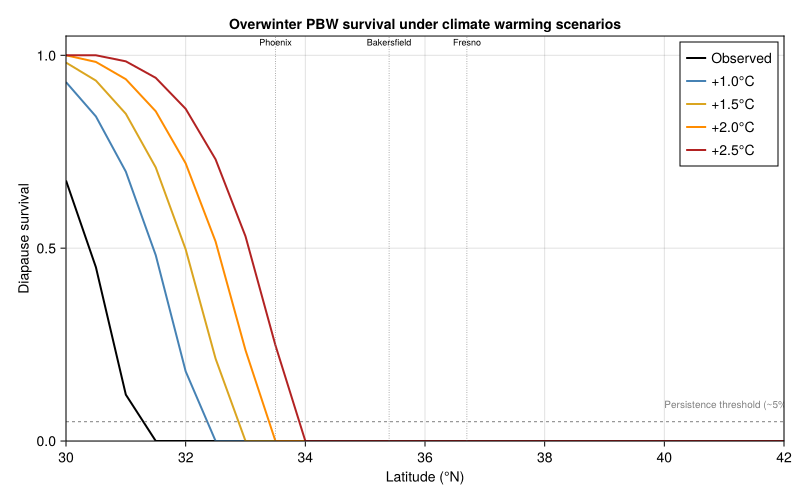
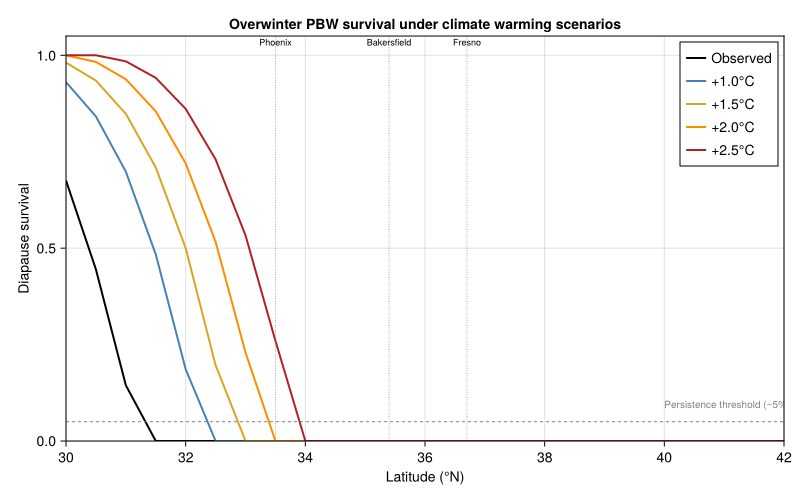
Render vignettes to gfm/HTML/PDF; fix LaTeX in vignette 59
- scripts/render_all_vignettes.sh: parameterise on output format
  (default gfm); usage: render_all_vignettes.sh [gfm|html|pdf]
- 59_olive_climate: brace \max / \min subscripts
  ('Y_\max' -> 'Y_{\max}', 'I_\max' -> 'I_{\max}') to satisfy
  lualatex; the bare form is fine for HTML/MathJax but breaks PDF
- 17_pink_bollworm: minor figure regen from full re-render

Render results across all 64 vignettes:
  gfm:  64/64 ok
  html: 64/64 ok
  pdf:  64/64 ok (after the #59 fix)

diff --git a/vignettes/17_pink_bollworm/17_pink_bollworm.md b/vignettes/17_pink_bollworm/17_pink_bollworm.md
@@ -472,15 +472,15 @@ end
 ```
 
     Phoenix, AZ:
-      Winter cold DD (below 10°C): 582.0
+      Winter cold DD (below 10°C): 580.0
       Diapause larval survival:    0.0%
 
     Bakersfield, CA:
-      Winter cold DD (below 10°C): 1176.0
+      Winter cold DD (below 10°C): 1191.0
       Diapause larval survival:    0.0%
 
     Fresno, CA:
-      Winter cold DD (below 10°C): 1458.0
+      Winter cold DD (below 10°C): 1457.0
       Diapause larval survival:    0.0%
 
 ## Seasonal Population Dynamics
